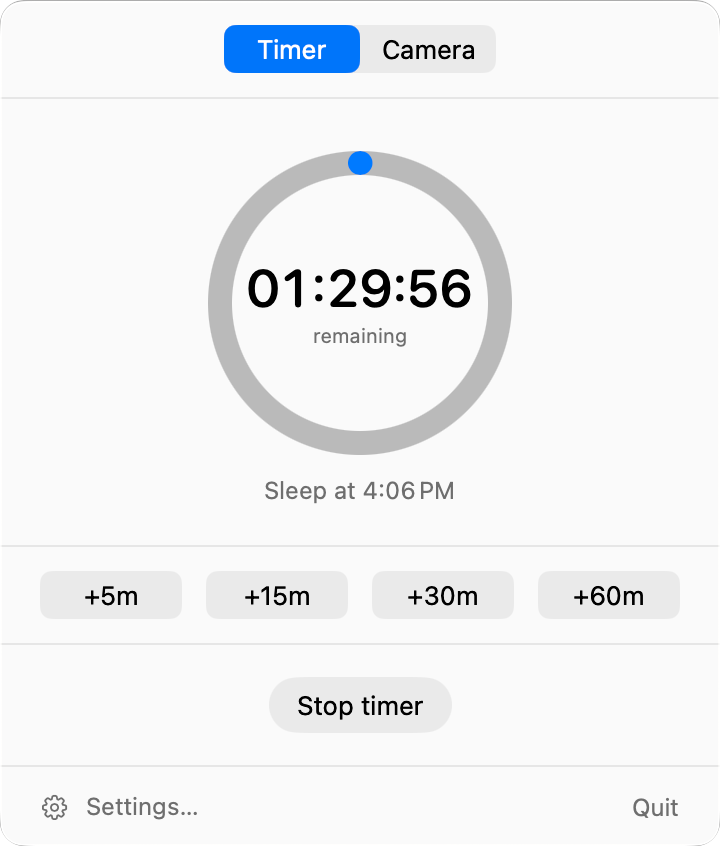
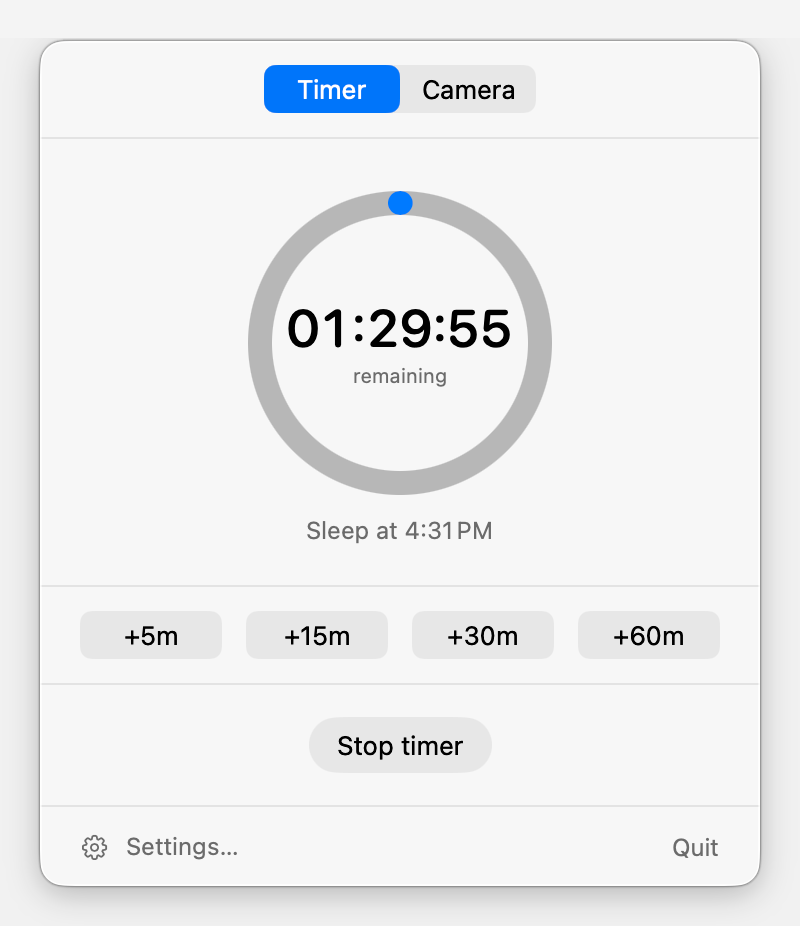
Capture screenshots with a backdrop margin instead of cut corners
Cutting the panel's rounded corners to transparent left the glass rim as a
gray fringe. Each window is now captured over an opaque backdrop a shade
darker than the panel, with a 20 pt margin and its shadow; the panel sits
right under the menu bar, so its top margin is filled in the backdrop color.
The settings window goes through the same path. The backdrop must be opaque:
underPageBackgroundColor is translucent and let other windows' text through.

capture_panel reopens the panel again, since a press can close it.

diff --git a/Sources/WatchMeSleepCore/MenuBarPanel.swift b/Sources/WatchMeSleepCore/MenuBarPanel.swift
@@ -22,7 +22,6 @@ public final class MenuBarPanelWindow: NSPanel {
 private final class PanelHostController: NSViewController {
     private let host: NSHostingController<AnyView>
     private let fixedWidth: CGFloat
-    /// capture-screenshots.sh cuts the screenshot corners with the same radius.
     private let cornerRadius: CGFloat = 12
 
     init<Content: View>(rootView: Content, width: CGFloat) {

diff --git a/docs/ui-architecture.md b/docs/ui-architecture.md
@@ -18,7 +18,7 @@ Animating the height change is an open HIG gap: with `sizingOptions` left on, Au
 
 `configure()` sets `isFloatingPanel` before `level`: the setter resets the level to `.floating`, which silently dropped the panel from `.statusBar` (25) to 3, under any other floating window.
 
-`capture-screenshots.sh` regenerates the README screenshots. A single-window capture renders Liquid Glass without what sits behind it, as flat gray, so the script puts a plain window-background backdrop under the panel, captures that screen region, and cuts the rounded corners back out. It drives the app only through Accessibility identifiers (`startTimer`, `stopTimer`, `openSettings`, `cameraPreview`), never synthetic clicks.
+`capture-screenshots.sh` regenerates the README screenshots. A single-window capture renders Liquid Glass without what sits behind it, as flat gray, so the script puts an opaque backdrop a shade darker than the panel under each window and captures the screen region with a 20 pt margin, shadow included. The panel hangs 1 pt below the menu bar, so the top margin is filled in the backdrop color instead of captured. The backdrop must be opaque: `underPageBackgroundColor` is translucent and let text from the windows behind it into the images. It drives the app only through Accessibility identifiers (`startTimer`, `stopTimer`, `openSettings`, `cameraPreview`), never synthetic clicks.
 
 The panel follows the system light/dark appearance. On macOS 26+ the system status-bar menus take the menu bar's appearance instead, so they can be dark while the system is light; do not copy that onto the panel (decided 2026-09-23).
 

diff --git a/CLAUDE.md b/CLAUDE.md
@@ -6,7 +6,7 @@ You are a **principal Swift/macOS engineer** maintaining a menu bar app that aut
 
 - `./run.sh` - build and run for development
 - `./create-app.sh` - assemble the standalone .app bundle and re-sign it. The stable signing identity here is "Watch Me While I Fall Asleep Dev"; the TCC grant it preserves is Camera.
-- `./capture-screenshots.sh` - rebuild and regenerate `screenshots/` through Accessibility identifiers; needs Accessibility and Screen Recording for the terminal, turns the camera on briefly and blurs it.
+- `./capture-screenshots.sh` - rebuild and regenerate `screenshots/` through Accessibility identifiers; needs Accessibility and Screen Recording for the terminal, turns the camera on briefly and blurs it. Quit an installed copy first, or the single-instance check quits the fresh build.
 - `Package.swift` stamps a macOS 26 SDK version into the executable through `linkerSettings`; without it Xcode 27's Swift Build records the deployment target there and macOS runs the pre-Tahoe compatibility look. Check a binary with `vtool -show-build`: `docs/ui-architecture.md`.
 
 ## Test and lint
